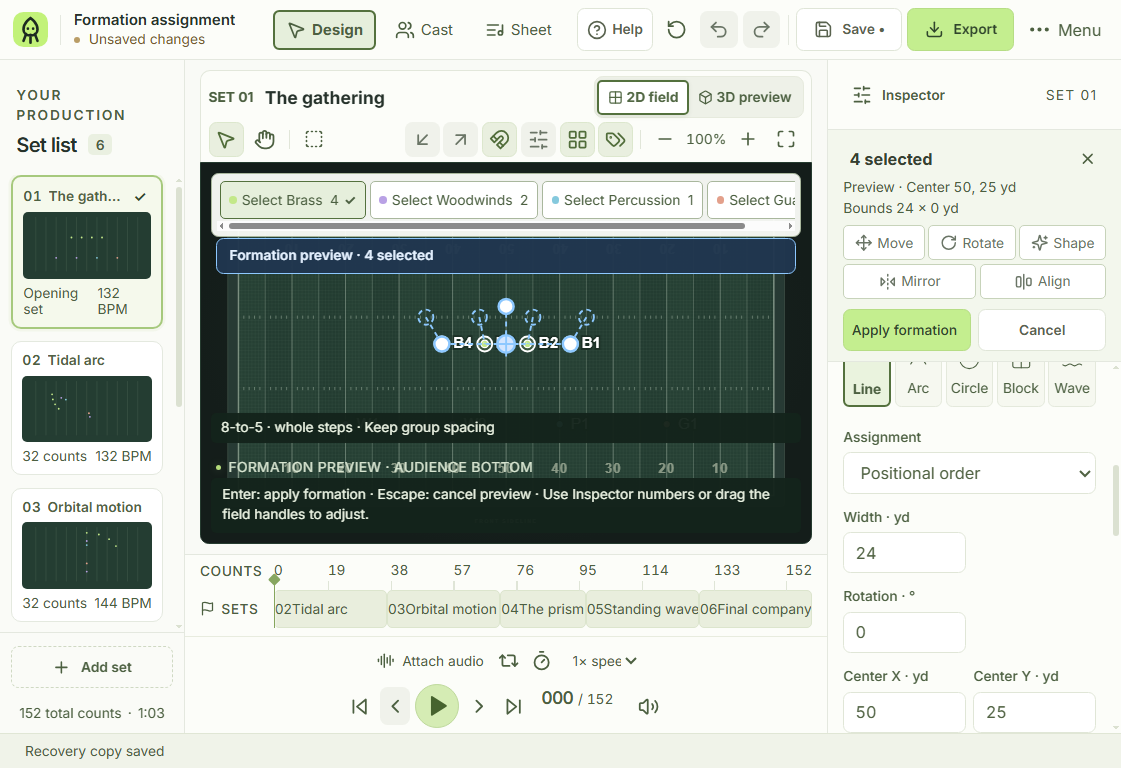
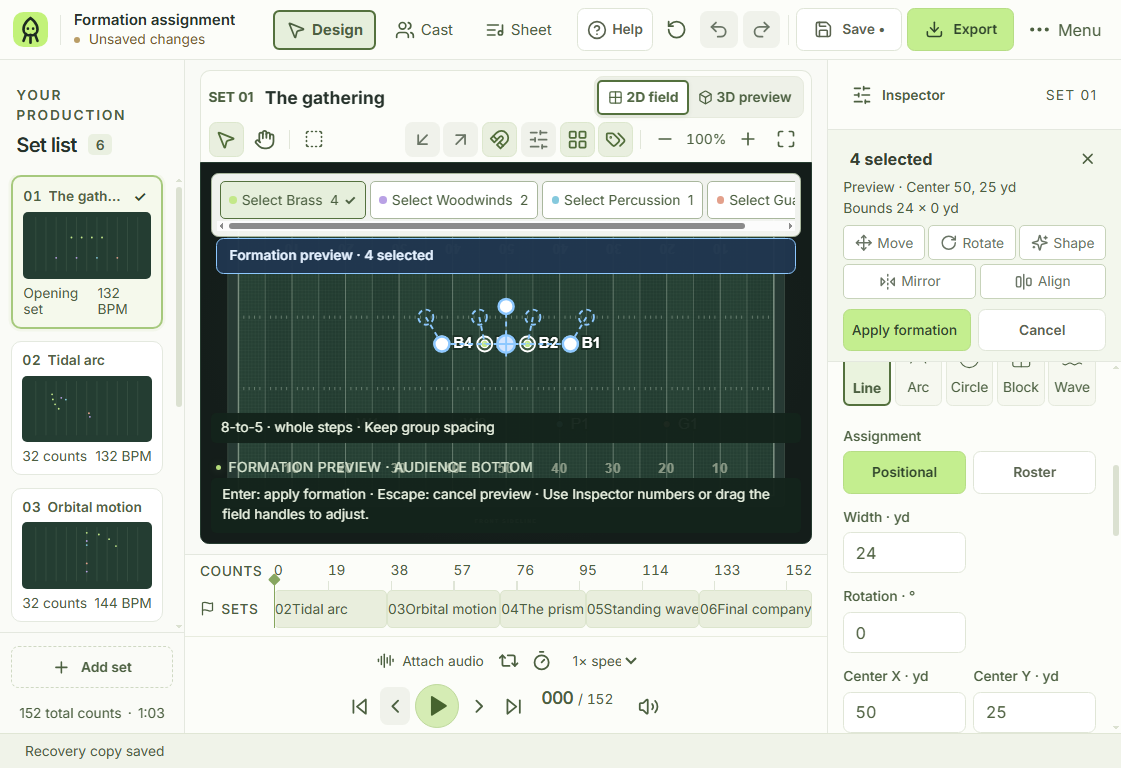
Expose assignment modes with shared native keyboard buttons

Changed region(s): [[0.7493, 0.5625, 0.8742, 0.6562], [0.7493, 0.5, 0.9679, 0.5312], [0.9054, 0.5938, 0.9367, 0.625]]

diff --git a/src/editor/FormationPanel.tsx b/src/editor/FormationPanel.tsx
@@ -1,7 +1,7 @@
 import { useEffect, useRef } from 'react';
 import { ArrowRight } from 'lucide-react';
 import { NumberField } from '../components/NumberField';
-import type { FormationAssignment, FormationOptions } from '../types';
+import type { FormationOptions } from '../types';
 import { formations } from './formations';
 import { HelpButton } from './ControlHelp';
 import type { EditorController } from './useEditorController';
@@ -22,7 +22,10 @@ export function FormationPanel({ controller: c }: { controller: EditorController
       disabled={c.pendingDraft || (!session && (c.readOnly || !c.selectedIds.length))} disabledReason={unavailable}
       onClick={() => c.dispatch('formation.preview', { kind: f.kind })}>{f.icon}<span>{f.label}</span></HelpButton>)}</div>
     {session && options && <div key={session.kind} className="formation-parameters">
-      <label className="form-label">Assignment<select aria-label="Formation assignment" value={options.assignment ?? 'roster'} disabled={c.pendingDraft} onChange={e => update({ assignment: e.target.value as FormationAssignment })}><option value="position">Positional order</option><option value="roster">Roster order</option></select></label>
+      <div className="form-label"><span>Assignment</span><div className="form-row" role="group" aria-label="Formation assignment">
+        <HelpButton title="Positional assignment" description="Assign destinations in the selected performers’ spatial order." aria-pressed={options.assignment === 'position'} className={options.assignment === 'position' ? 'button primary' : 'button subtle'} disabled={c.pendingDraft} disabledReason="Finish or cancel the pending input before changing assignment." onClick={() => update({ assignment: 'position' })}>Positional</HelpButton>
+        <HelpButton title="Roster assignment" description="Assign destinations in Cast order." aria-pressed={options.assignment !== 'position'} className={options.assignment !== 'position' ? 'button primary' : 'button subtle'} disabled={c.pendingDraft} disabledReason="Finish or cancel the pending input before changing assignment." onClick={() => update({ assignment: 'roster' })}>Roster</HelpButton>
+      </div></div>
       <div className="form-row"><NumberField label="Width · yd" value={display(options.width)} min={.1} max={200} step={.1} onDraftChange={c.setPendingDraft} onChange={width => update({ width })} />
         {session.kind !== 'line' && <NumberField label={session.kind === 'arc' ? 'Bulge · yd' : 'Depth · yd'} value={display(options.height)} min={0} max={200} step={.1} onDraftChange={c.setPendingDraft} onChange={height => update({ height })} />}</div>
       <div className="form-row"><NumberField label="Rotation · °" value={display(options.rotation)} min={-3600} max={3600} step={1} onDraftChange={c.setPendingDraft} onChange={rotation => update({ rotation })} />

diff --git a/docs/evidence/formation-assignment/README.md b/docs/evidence/formation-assignment/README.md
@@ -2,7 +2,7 @@
 
 For [#26](https://github.com/IanSzymanski/squidware/issues/26). [Validation and measured layouts](validation.json) identify the native source/build/run and passing assignment/editor owners. Screenshots were visually inspected. The existing accessibility owner also passes on this application implementation; final source/contracts/native and hosted three-platform results are linked in the implementation PR.
 
-Design guidance §§1–5 applies. The change reuses the Inspector, shared select and numeric controls, preview/acceptance commands, field paths, selection IDs and named undo. No project schema or physical-coordinate convention changes. The field remains 485px high at 1366×768 and 1120×768 at default scale, before and during preview. At 125% zoom it remains equal to the same layout without preview: 415.25 physical pixels at 1366px and 381.75 at 1120px. Existing toolbar/transport wrapping accounts for the enlarged narrow layout; the default-scale target is preserved. Assignment, travel and Apply/Cancel remain reachable. No new theme is introduced; #43 and physical writer/device qualification #64/#3 retain their scope.
+Design guidance §§1–5 applies. The change reuses the Inspector, shared pressed buttons and numeric controls, preview/acceptance commands, field paths, selection IDs and named undo. No project schema or physical-coordinate convention changes. The field remains 485px high at 1366×768 and 1120×768 at default scale, before and during preview. At 125% zoom it remains equal to the same layout without preview: 415.25 physical pixels at 1366px and 381.75 at 1120px. Existing toolbar/transport wrapping accounts for the enlarged narrow layout; the default-scale target is preserved. Assignment, travel and Apply/Cancel remain reachable. No new theme is introduced; #43 and physical writer/device qualification #64/#3 retain their scope.
 
 The four reversed performers produce six crossing pairs with roster assignment and zero with positional assignment in the source fixture. Native rendered paths and total/longest travel agree with known destinations: positional 21.86/5.83 yd; roster 75.51/27.46 yd. This is a bounded comparison, with no claim of global optimization. Native mode changes, rotation continuity, cancel, one accepted history entry, undo/redo and actual save/reopen preserve performer metadata, unrelated dots and other sets.
 
